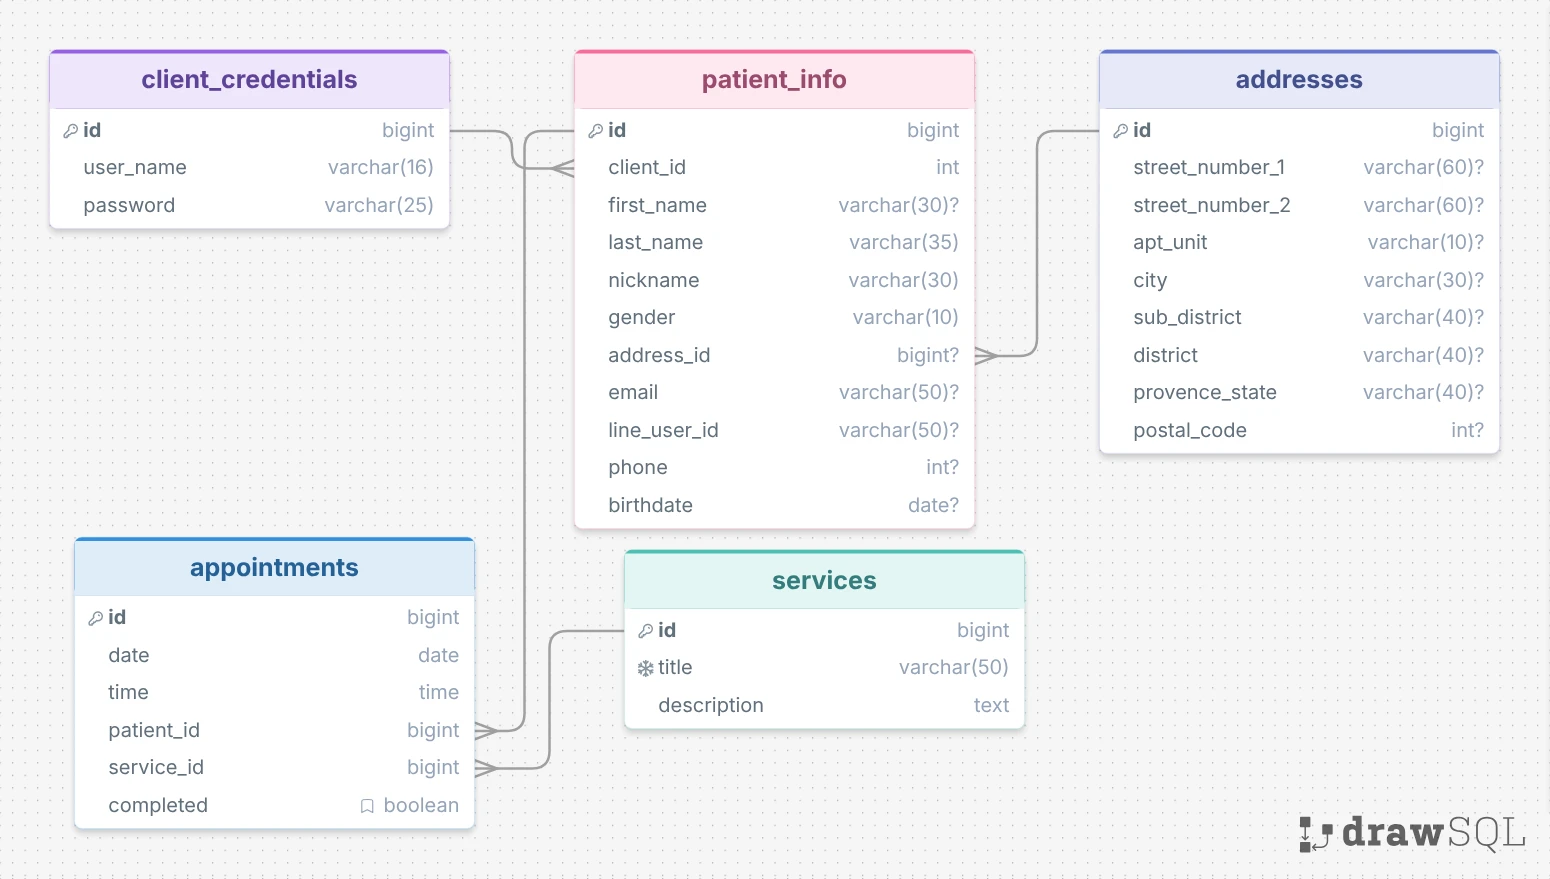
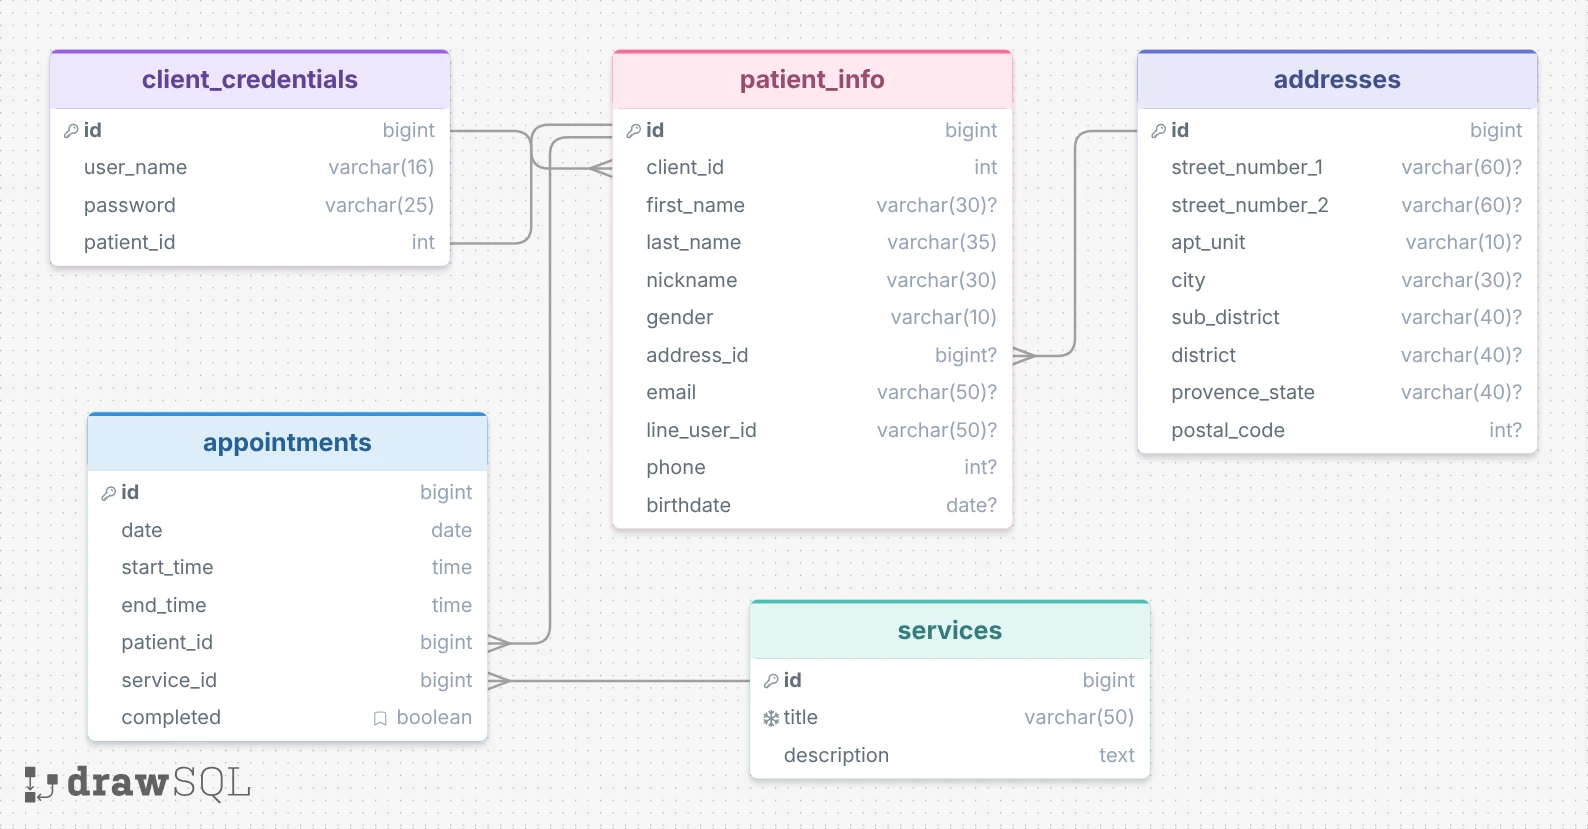
updated: queryies for appointments are initialized and functionings.

diff --git a/db/queries/appointments.js b/db/queries/appointments.js
@@ -33,28 +33,106 @@ export const createAppointment = async ({
   }
 };
 
-export const getAllAppointments = async ({ date, startTime, endTime,patientID, serviceID }) => {
+export const getAllAppointments = async () => {
   /*
-    This will be used to obtain unavailable appointment time.
+    This will be used to obtain unavailable appointment times.
     the algorythm will be handled mostly on the front end.
 
     this can also be used to provide a schedule for the therapist.
   */
 
-  const sql = ``;
+  const sql = `
+    SELECT
+      appointments.id AS appt_id,
+      date,
+      start_time,
+      end_time,
+      patient_id,
+      patient_info.first_name,
+      patient_info.nickname,
+      patient_info.last_name,
+      service_id,
+      services.title,
+      appointments.completed
+    FROM appointments
+    JOIN patient_info
+      ON appointments.patient_id = patient_info.id
+    JOIN services
+      ON appointments.service_id = services.id
+  `;
 
   try {
-
+    const { rows: appointments } = await db.query(sql);
+    // console.log(`appointments:`, appointments);
+    return appointments
   } catch (err) {
     console.log(`ERROR GETTING ALL APPOINTMENTS:`, err)
   }
 };
 
-export const getAppointmentsByClientID = async (clientID) => {};
+export const getAppointmentsByClientID = async (clientID) => {
+  const sql = `
+    SELECT
+      appointments.id AS appt_id,
+      date,
+      start_time,
+      end_time,
+      patient_id,
+      patient_info.first_name,
+      patient_info.nickname,
+      patient_info.last_name,
+      service_id,
+      services.title,
+      appointments.completed
+    FROM appointments
+    JOIN patient_info
+      ON appointments.patient_id = patient_info.id
+    JOIN services
+      ON appointments.service_id = services.id
+    WHERE patient_info.client_id = ${clientID}
+  `;
 
-export const getAppointmentsByPatientID = async (patientID) => {};
+  try {
+    const { rows: appointments } = await db.query(sql);
+    if (appointments.length < 1) throw new Error(`There are no appointments under the queried client's account.`);
+    return appointments
+  } catch (err) {
+    console.log(`ERROR GETTING APPOINTMENT BY CLIENT ID:`, err)
+  }
+};
 
-export const cancelAppointment = async (appointmentID) => {
+export const getAppointmentsByPatientID = async (patientID) => {
+  const sql = `
+    SELECT
+      appointments.id AS appt_id,
+      date,
+      start_time,
+      end_time,
+      patient_info.first_name,
+      patient_info.nickname,
+      patient_info.last_name,
+      patient_info.client_id,
+      service_id,
+      services.title,
+      appointments.completed
+    FROM appointments
+    JOIN patient_info
+      ON appointments.patient_id = patient_info.id
+    JOIN services
+      ON appointments.service_id = services.id
+    WHERE appointments.patient_id = ${patientID}  
+  `;
+
+  try {
+    const { rows: appointments } = await db.query(sql);
+    if (appointments.length < 1) throw new Error(`The queried patient does not have appointments scheduled.`);
+    return appointments
+  } catch (err) {
+    console.log(`ERROR GETTING APPOINTMENT BY PATIENT ID:`, err)
+  }
+};
+
+export const cancelAppointment = async (apptID) => {
   /*
     The process of changing appointments requires the patient/client to
     cancel/delete the appointment and then to reschedule/create a new
@@ -65,4 +143,16 @@ export const cancelAppointment = async (appointmentID) => {
     completed appointments will be used to track previous rendered services
     or no-shows.
   */
+
+  const sql = `
+    DELETE FROM appointments
+    WHERE id = ${apptID}
+  `;
+
+  try {
+    await db.query(sql);
+    throw new Error(`The appointment previously haveing id:${apptID} does not exist.`);
+  } catch (err) {
+    console.log(`ERROR CANCELING APPOINTMENT:`, err)
+  }
 };
